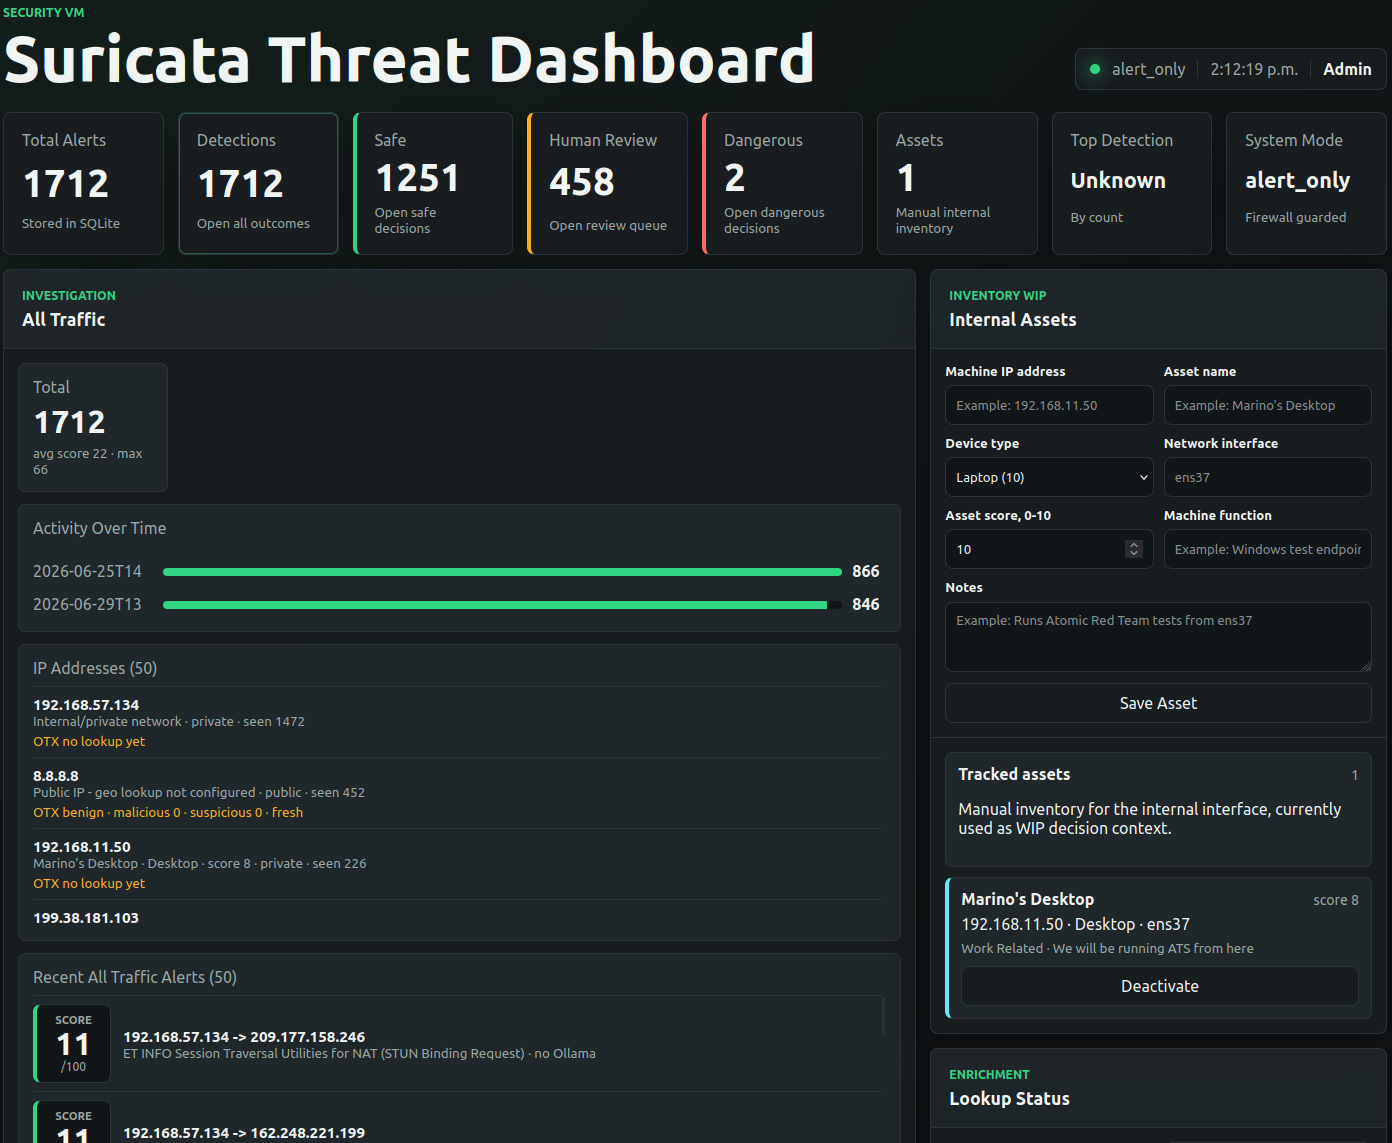
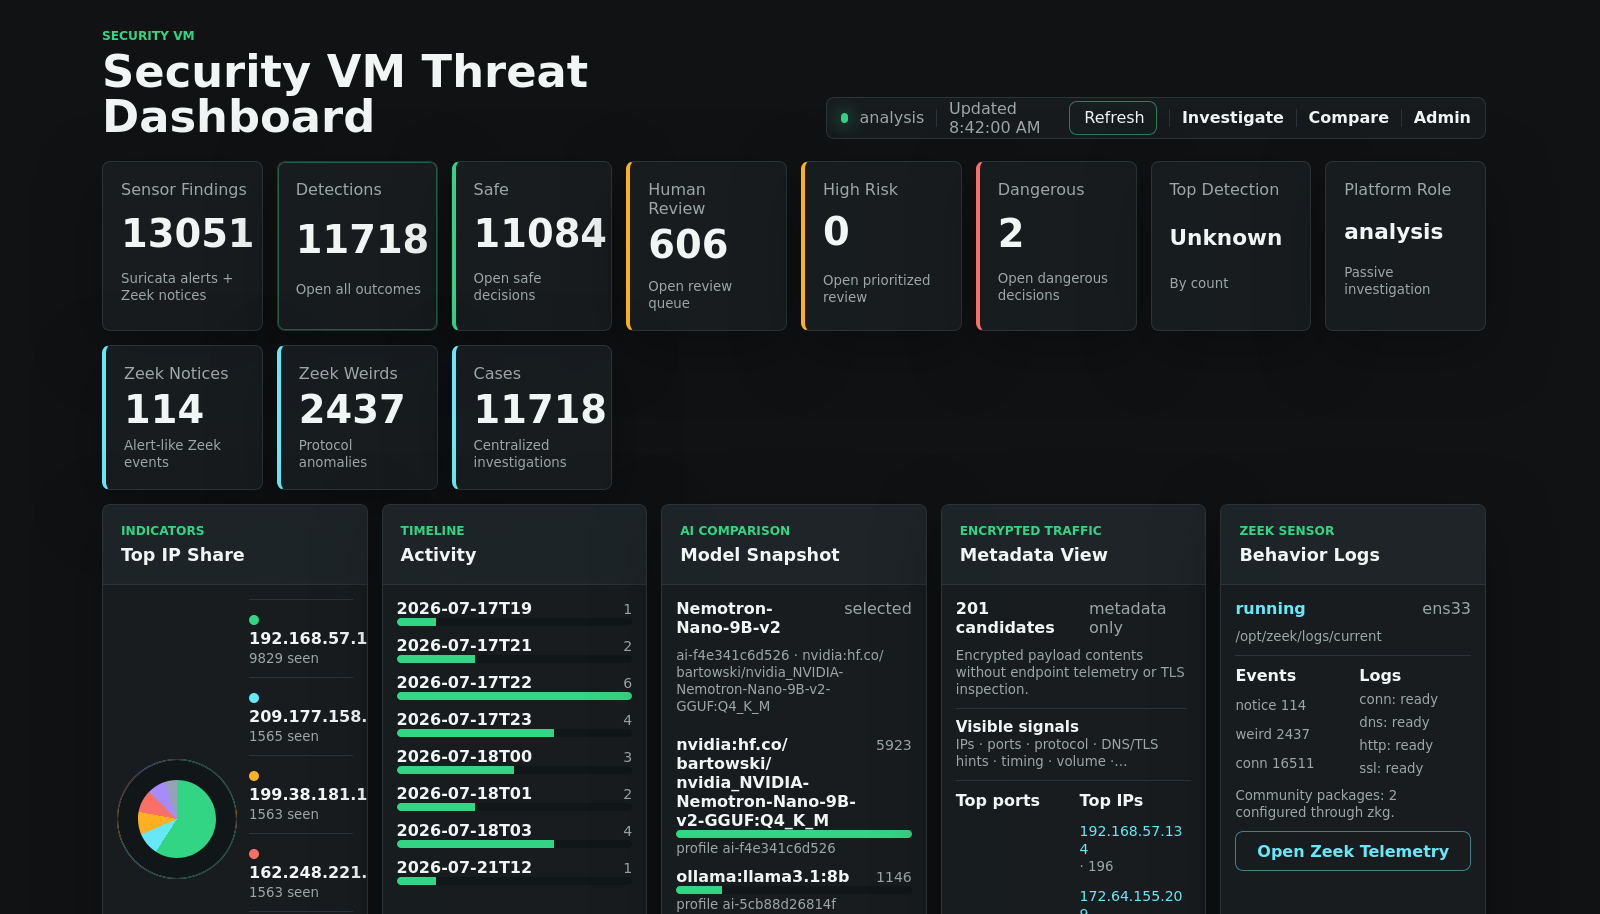
Refresh dashboard screenshots and gallery

diff --git a/static/styles.css b/static/styles.css
@@ -204,6 +204,12 @@ h2 {
   align-items: center;
 }
 
+.case-actions > button {
+  width: 100%;
+  min-height: 42px;
+  padding: 8px 14px;
+}
+
 @media (max-width: 850px) {
   .case-actions {
     grid-template-columns: 1fr;

diff --git a/static/compare.html b/static/compare.html
@@ -4,7 +4,7 @@
     <meta charset="utf-8">
     <meta name="viewport" content="width=device-width, initial-scale=1">
     <title>AI Model Comparison</title>
-    <link rel="stylesheet" href="/static/styles.css?v=20260717-case-evidence-browser">
+    <link rel="stylesheet" href="/static/styles.css?v=20260721-doc-gallery">
   </head>
   <body>
     <main class="shell workbook-shell">
@@ -66,7 +66,7 @@
             </div>
             <small id="cmp-model-state" class="panel-hint">Model identities shown for direct comparison</small>
           </div>
-          <div id="cmp-candidates" class="model-candidate-grid"></div>
+          <div id="cmp-candidates" class="comparison-content"></div>
           <form id="cmp-vote-form" class="comparison-vote-form" hidden>
             <fieldset>
               <legend>Which response gives the best evidence-grounded case summary and next steps?</legend>

diff --git a/static/investigation.html b/static/investigation.html
@@ -4,7 +4,7 @@
     <meta charset="utf-8">
     <meta name="viewport" content="width=device-width, initial-scale=1">
     <title>Security VM Investigation</title>
-    <link rel="stylesheet" href="/static/styles.css?v=20260717-case-evidence-browser">
+    <link rel="stylesheet" href="/static/styles.css?v=20260721-doc-gallery">
   </head>
   <body>
     <main class="shell workbook-shell">

diff --git a/README.md b/README.md
@@ -48,6 +48,20 @@ See [SECURITY_VM_WORKFLOW.md](docs/SECURITY_VM_WORKFLOW.md) for the detailed dat
 - Analyst confirmation, override, notes, and tuning labels
 - Manual dashboard refresh so the page does not jump while an analyst is reading
 
+## Interface
+
+| Dashboard overview | Case investigation |
+| --- | --- |
+| ![Security VM dashboard overview](docs/images/dashboard-overview.png) | ![Centralized case investigation](docs/images/case-investigation.png) |
+
+| Zeek telemetry | AI model comparison |
+| --- | --- |
+| ![Zeek telemetry and ingestion health](docs/images/zeek-telemetry.png) | ![Three-model case summary comparison](docs/images/ai-comparison.png) |
+
+| Threat-intelligence providers | Admin controls |
+| --- | --- |
+| ![Threat-intelligence provider status and controls](docs/images/threat-intelligence.png) | ![AI model and registered IP administration](docs/images/admin-controls.png) |
+
 ## Scoring Policy
 
 Python calculates at most 80 points: